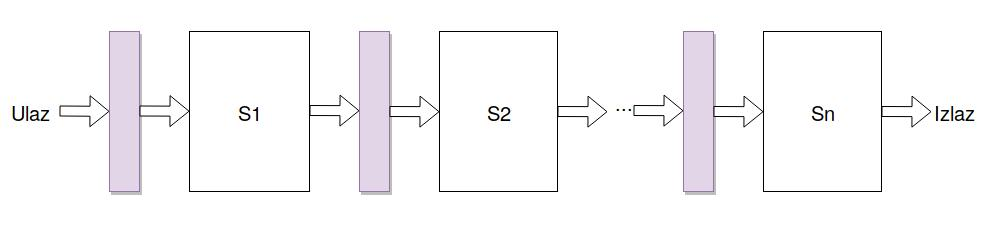
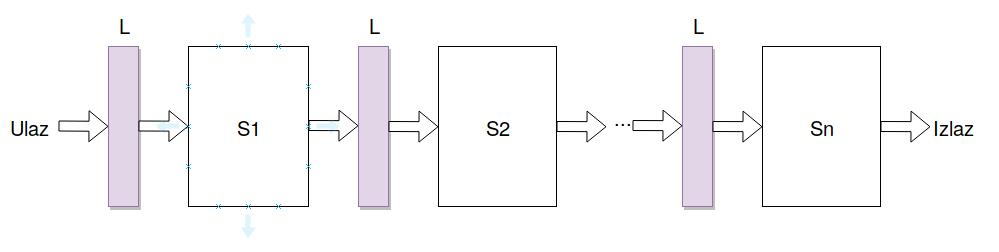
update slika 03

diff --git a/arhitekture/predavanja/02_15_10_18.md b/arhitekture/predavanja/02_15_10_18.md
@@ -50,4 +50,27 @@
   * paralelna obrada
 - Mogućnost eksploatacije paralelizma
   * Šta podrazumijeva paralelizam
-    -
+    - Postojanje paralelizma znači da se određena računanja mogu procesirati istovremeno
+  * Različiti nivoi na kojima se može identifikovati i eksploatisati paralelizam
+
+### Paralelizam i Arhitekturni koncepti
+
+- Paralelizam na programskom nivou i nivou zadataka
+  * MIMD
+- Paralelizam na proceduralnom nivou, nivou programskih petlji i grupa instrukcija
+  * SIMD
+- Instrukcioni nivo paralelizma
+  * Protočna obrada
+  * Grupna obrada instrukcija korišzenjem više funkcionalnih jedinica
+
+### Koncept protočne obrade
+
+![Koncept protočne obrade](https://github.com/Milos5/fax/blob/master/arhitekture/predavanja/slike/Slika_03.jpg "Koncept protočne obrade")
+
+* Period radnog takta protočnog sistema je:
+  T = max {T<sub>i</sub>} + T<sub>l</sub> = T<sub>m</sub> + T<sub>l</sub>
+  T<sub>
+
+Koncept protočne obrade se sastoji u tome da se neka operacija razdijeli u sekvencijalni niz podoperacija, pri čemu se svaka podoperacija realizuje u specijalizovanom hardverskom sklopu (protočnom stepenu).
+
+Niz ovih hardverskih segmenata čini protočni sistem. Tokom izvršavanja podoperacija u protočnim stepenima, vrši se procesiranje podataka (transformacija ulaznih vrijednosti/operanada u rezultat), pri čemu se rezultat dobija kompletiranjem operacije, tj. obradom u posljednjem protočnom stepenu
